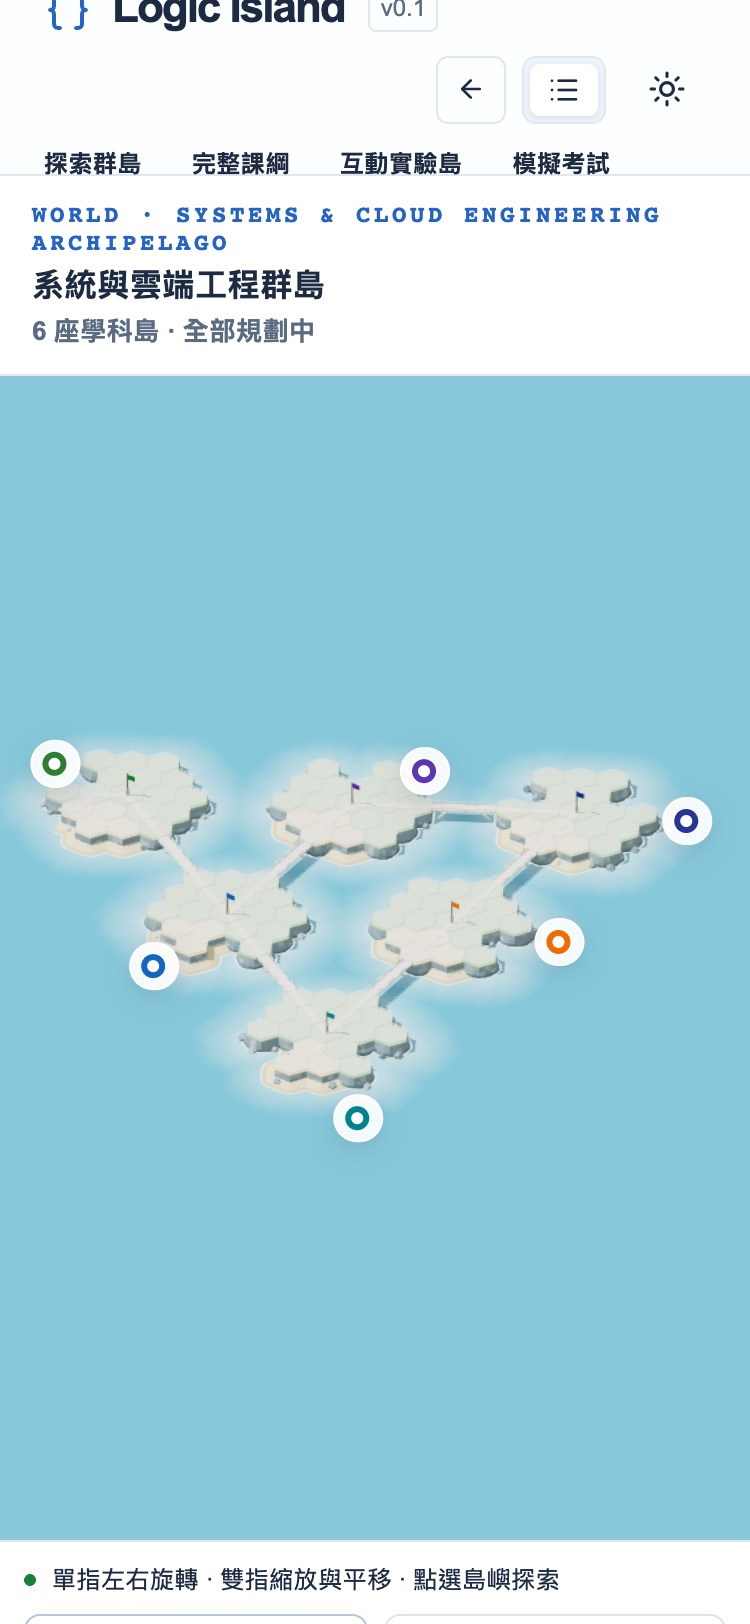
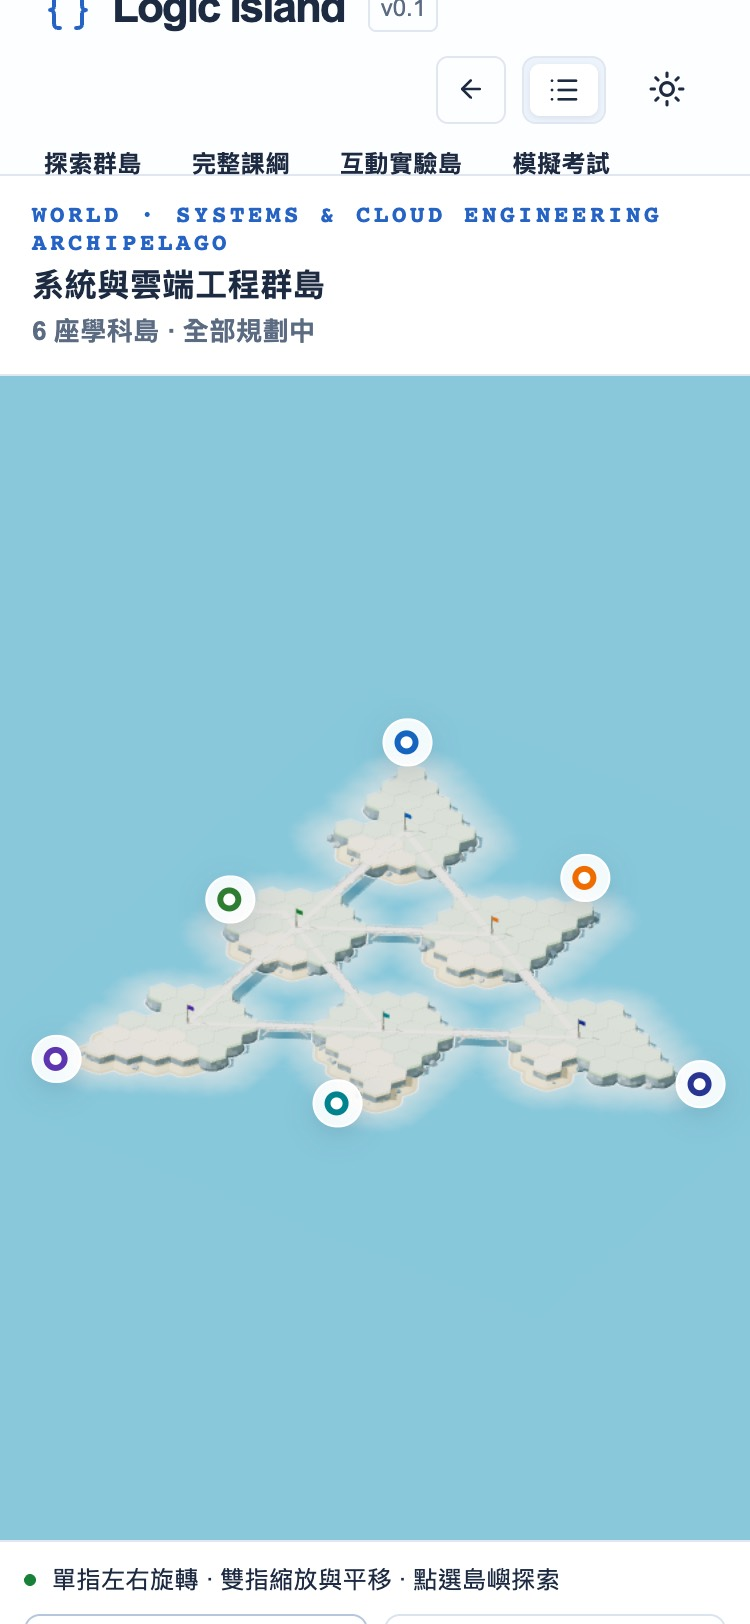
world: AI region as a six-petal pinwheel; region maps laid out by curriculum relations (P8.2)
Still behind LOGIC_ISLAND_REGIONAL_WORLD; the home page, /islands and the CS map
are unchanged.

AI region (requested): six petals leaning the same way around a lagoon, bridged in
a ring, with the language-model island as the small hexagon in the middle joined by
one bridge; a turning shape, not spokes from a hub. The M3.1 loop is kept whole as
AI_BASELINE_LAYOUT, one line away, and is still validated.

Relations: src/lib/world/island-relations.ts derives which islands (and regions)
are related from lesson prerequisites and recommendations. Design, web and sys are
laid out around them and every bridge of a lattice map joins a related pair (tests
pin the relations a flat map cannot bridge). Lattice placements gain headlands.

The AI overview floor on phones is re-pinned at 70 px (74 measured; the loop
reached 85); the focused-island target of 88 px still holds in every region.

Changed region(s): [[0.0, 0.431, 0.9813, 0.7081]]

diff --git a/src/lib/islands/regions/region-layouts.ts b/src/lib/islands/regions/region-layouts.ts
@@ -18,8 +18,9 @@ import type { LatticeMapSpec, RegionLayout } from './schema';
  *
  * P8.2 (multi-region world): this file is the Region Layout Registry. A region is on the 3D world when it has an entry
  * in REGION_LAYOUTS, and nothing else lists the regions: the pages, the overview and the tests all read
- * MAPPED_REGION_IDS. CS and AI are authored (their approved M3.1 coordinates, unchanged); design, web and sys are
- * lattice maps (lattice-layout.ts), one IslandPlacement per registry island, proposed for art review.
+ * MAPPED_REGION_IDS. CS is authored (its approved M3.1 coordinates, unchanged); design, web and sys are lattice maps
+ * (lattice-layout.ts), one IslandPlacement per registry island, proposed for art review. AI (2026-11-12, requested):
+ * a six-petal pinwheel, also a lattice map and a proposal; its M3.1 loop stays below as AI_BASELINE_LAYOUT.
  */
 
 /** A planned island before it has lessons: a radius-2 hex, 19 tiles. */
@@ -64,57 +65,97 @@ const aiSettlements = [
   planned('generative-ai', A(-2, -18)), planned('ai-agents', A(-8, -3)),
   planned('ai-engineering', A(-7, 3), [{ id: 'ai-engineering-dock', tile: A(-7, 5), edge: 5 }]),
 ].map(plannedSettlement);
-const ai: WorldLayout = {
+const aiBaseline: WorldLayout = {
   world: { size: 1.25, settlements: aiSettlements, bridges: AI_BRIDGES },
   glb: [], forests: [], zones: { plaza: 0, buildings: 0, forest: 0, hills: 0, shore: 0, open: 0 },
 };
+/**
+ * The AI region as approved in M3.1 (the loop above). Kept whole, with its camera and docks, so going back is one line
+ * in REGION_LAYOUTS; unit tests still validate it.
+ */
+export const AI_BASELINE_LAYOUT: RegionLayout = { regionId: 'ai', layout: aiBaseline, camera: { azimuth: { desktop: 0, phone: 0 }, labelReach: 8.5 },
+  docks: [{ islandId: 'ai-foundations', spurId: 'ai-foundations-dock' }, { islandId: 'ai-engineering', spurId: 'ai-engineering-dock' }], source: 'authored' };
 
 /*
- * 數位設計群島: four islands around a lagoon, a rhombus. The dock is on UI 設計島's outer shore.
+ * P8.2 (2026-11-12): the four lattice maps are laid out by how their islands are related (a lesson of one island names
+ * a lesson of the other as a prerequisite or as recommended; src/lib/world/island-relations.ts). The island with the
+ * most relations stands in the middle, the islands related to it around it, and every bridge joins a related pair;
+ * unit tests check each bridge against the curriculum and pin the few relations a flat map cannot bridge. The AI map
+ * is the exception by request: a turning ring of six, not a hub with spokes; its bridges still join related pairs only.
+ */
+
+/*
+ * AI 人工智慧群島 as a six-petal pinwheel (requested 2026-11-12: an outline that recalls the six-fold knot of a
+ * well-known AI mark, as an arrangement of islands, not a copy of any logo; and a turning shape, not spokes from a
+ * hub). Six petals stand around a lagoon and each leans the same way round: a headland on one outer side, a bay on
+ * the other and a second bay on the inner side, so the ring reads as turning. A bridge joins each petal to the next,
+ * and every such pair is related in the curriculum. 大型語言模型島 is the small hexagon in the middle of the lagoon,
+ * joined by one bridge to the island it is most related to (AI 代理島) rather than by six spokes.
+ * Petal j sits on lattice direction j: its ring bridges take edges j+2 and j+4, so its outer rim tiles j-1 and j are
+ * free for the bay, the headland and, on the petal that faces the hub (AI 基礎島), the ferry dock.
+ */
+const AI_PETALS = ['deep-learning', 'machine-learning', 'ai-engineering', 'ai-agents', 'ai-foundations', 'generative-ai'] as const;
+const AI_DOCK_PETAL = 4;
+const turn = (k: number) => (((k % 6) + 6) % 6) as 0 | 1 | 2 | 3 | 4 | 5;
+const AI_CELLS: (readonly [number, number])[] = [[1, 0], [1, -1], [0, -1], [-1, 0], [-1, 1], [0, 1]];
+const AI_PINWHEEL: LatticeMapSpec = {
+  bridge: 'stone',
+  placements: [
+    { islandId: 'large-language-models', cell: [0, 0] },
+    ...AI_PETALS.map((islandId, j) => ({ islandId, cell: AI_CELLS[j], extend: [turn(j)], ...(j === AI_DOCK_PETAL ? { dock: turn(j - 1), trim: [turn(j + 2)] } : { trim: [turn(j - 1), turn(j + 2)] }) })),
+  ],
+  links: [...AI_PETALS.map((id, j) => [id, AI_PETALS[(j + 1) % 6]] as const), ['large-language-models', 'ai-agents']],
+};
+
+/*
+ * 數位設計群島: UI 設計島 and 互動設計島 side by side in the middle (each related to the other three), UX 研究島 and
+ * 設計系統島 at the two ends. All five relations of the region are bridges.
  */
 const DESIGN: LatticeMapSpec = {
   bridge: 'wood',
   placements: [
-    { islandId: 'ui-design', cell: [0, 0], trim: [1], dock: 3 },
-    { islandId: 'ux-research', cell: [1, 0], trim: [0, 2] },
+    { islandId: 'ux-research', cell: [0, 0], trim: [1], dock: 3 },
+    { islandId: 'ui-design', cell: [1, 0], extend: [1] },
     { islandId: 'interaction-design', cell: [0, 1], trim: [4] },
-    { islandId: 'design-systems', cell: [1, 1], trim: [5, 3] },
+    { islandId: 'design-systems', cell: [1, 1], extend: [0], trim: [5] },
   ],
-  links: [['ui-design', 'ux-research'], ['ui-design', 'interaction-design'], ['ux-research', 'design-systems'], ['interaction-design', 'design-systems']],
+  links: [['ux-research', 'ui-design'], ['ux-research', 'interaction-design'], ['ui-design', 'interaction-design'], ['ui-design', 'design-systems'], ['interaction-design', 'design-systems']],
 };
 /*
- * 網頁與應用開發群島: a stepped chain running east, from the web foundations to mobile apps, like a delivery pipeline.
+ * 網頁與應用開發群島: 網頁基礎島 and 行動應用島 in the middle, 前端 and 響應式設計 at the ends, lying east to west. All
+ * five relations of the region are bridges.
  */
 const WEB: LatticeMapSpec = {
   bridge: 'wood',
   placements: [
-    { islandId: 'web-foundations', cell: [0, 0], trim: [2], dock: 4 },
-    { islandId: 'frontend', cell: [1, 0], trim: [5] },
-    { islandId: 'responsive-design', cell: [2, -1], trim: [1, 4] },
-    { islandId: 'mobile-apps', cell: [3, -1], trim: [0] },
+    { islandId: 'frontend', cell: [0, 0], trim: [3], extend: [4] },
+    { islandId: 'web-foundations', cell: [1, 0], dock: 4 },
+    { islandId: 'mobile-apps', cell: [1, -1], trim: [2] },
+    { islandId: 'responsive-design', cell: [2, -1], extend: [0], trim: [5] },
   ],
-  links: [['web-foundations', 'frontend'], ['frontend', 'responsive-design'], ['responsive-design', 'mobile-apps']],
+  links: [['frontend', 'web-foundations'], ['frontend', 'mobile-apps'], ['web-foundations', 'mobile-apps'], ['web-foundations', 'responsive-design'], ['mobile-apps', 'responsive-design']],
 };
 /*
- * 系統與雲端工程群島: a stack of three rows, the operating system, containers and servers at the base, cloud and
- * delivery above them, Kubernetes at the top.
+ * 系統與雲端工程群島: Linux 系統島 in the middle with the four islands that build on it around it, and Kubernetes
+ * beyond the two it depends on most (DevOps and servers). Eight of the region's ten relations are bridges.
  */
 const SYS: LatticeMapSpec = {
   bridge: 'stone',
   placements: [
-    { islandId: 'linux-systems', cell: [-2, 2], trim: [3], dock: 4 },
-    { islandId: 'docker-containers', cell: [-1, 2], trim: [5] },
-    { islandId: 'network-servers', cell: [0, 2], trim: [0, 4] },
-    { islandId: 'cloud-infrastructure', cell: [-1, 1], trim: [2] },
-    { islandId: 'devops-cicd', cell: [0, 1], trim: [0] },
-    { islandId: 'kubernetes-reliability', cell: [0, 0], trim: [1, 3] },
+    { islandId: 'linux-systems', cell: [0, 0], dock: 3 },
+    { islandId: 'network-servers', cell: [1, 0], extend: [5] },
+    { islandId: 'devops-cicd', cell: [1, -1], extend: [1] },
+    { islandId: 'docker-containers', cell: [0, -1], extend: [2], trim: [3] },
+    { islandId: 'cloud-infrastructure', cell: [0, 1], extend: [4], trim: [3] },
+    { islandId: 'kubernetes-reliability', cell: [2, -1], extend: [0], trim: [5] },
   ],
-  links: [['linux-systems', 'docker-containers'], ['docker-containers', 'network-servers'], ['docker-containers', 'cloud-infrastructure'],
-    ['network-servers', 'devops-cicd'], ['cloud-infrastructure', 'kubernetes-reliability'], ['devops-cicd', 'kubernetes-reliability']],
+  links: [['linux-systems', 'network-servers'], ['linux-systems', 'devops-cicd'], ['linux-systems', 'docker-containers'], ['linux-systems', 'cloud-infrastructure'],
+    ['devops-cicd', 'docker-containers'], ['network-servers', 'cloud-infrastructure'], ['network-servers', 'kubernetes-reliability'], ['devops-cicd', 'kubernetes-reliability']],
 };
 // Lattice maps keep the default view; their captions get the room the longest island names need beside the list.
-const lattice = (regionId: RegionId, spec: LatticeMapSpec, labelReach = 8.5): RegionLayout =>
-  ({ regionId, ...latticeLayout(spec), camera: { azimuth: { desktop: 0, phone: 0 }, labelReach }, source: 'lattice' });
+// `markers`: the new regions' planned islands carry an accent pennant; AI keeps the M3.1 planned-island look.
+const lattice = (regionId: RegionId, spec: LatticeMapSpec, { labelReach = 8.5, markers = true, azimuth = 0 } = {}): RegionLayout =>
+  ({ regionId, ...latticeLayout(spec), camera: { azimuth: { desktop: azimuth, phone: azimuth }, labelReach }, source: 'lattice', ...(markers ? { plannedMarkers: true as const } : {}) });
 
 /**
  * The regions that have a 3D map, keyed by registry region id. A region without an entry has no /world page and no
@@ -123,10 +164,12 @@ const lattice = (regionId: RegionId, spec: LatticeMapSpec, labelReach = 8.5): Re
  */
 export const REGION_LAYOUTS: Partial<Record<RegionId, RegionLayout>> = {
   cs: { regionId: 'cs', layout: cs, camera: { azimuth: { desktop: 295, phone: 105 }, labelReach: 8.5 }, docks: [{ islandId: 'foundations', spurId: 'foundations-dock' }], source: 'authored' },
-  ai: { regionId: 'ai', layout: ai, camera: { azimuth: { desktop: 0, phone: 0 }, labelReach: 8.5 }, docks: [{ islandId: 'ai-foundations', spurId: 'ai-foundations-dock' }, { islandId: 'ai-engineering', spurId: 'ai-engineering-dock' }], source: 'authored' },
+  // To go back to the M3.1 loop: `ai: AI_BASELINE_LAYOUT`.
+  // Turned 30 degrees: a hexagonal ring is narrowest across its flats, so every island is drawn larger.
+  ai: lattice('ai', AI_PINWHEEL, { markers: false, azimuth: 30, labelReach: 6 }),
   design: lattice('design', DESIGN),
   web: lattice('web', WEB),
-  sys: lattice('sys', SYS, 12),
+  sys: lattice('sys', SYS, { labelReach: 16 }),
 };
 /** The mapped regions, in the registry's id order; derived, never listed by hand. */
 export const MAPPED_REGION_IDS: readonly RegionId[] = REGION_IDS.filter(id => REGION_LAYOUTS[id]);

diff --git a/tests/regional-world.test.ts b/tests/regional-world.test.ts
@@ -4,7 +4,7 @@ import { settlementRoads, type HexWorld } from '@/lib/islands/hex-world';
 import { islandsHomeWorld } from '@/lib/islands/islands-world';
 import { DATABASES_SPEC } from '@/lib/islands/islands-world';
 import { DATABASE_LANDMARKS } from '@/lib/islands/database-island';
-import { MAPPED_REGION_IDS, REGION_LAYOUTS, isMappedRegion, regionLayout } from '@/lib/islands/regions/region-layouts';
+import { AI_BASELINE_LAYOUT, MAPPED_REGION_IDS, REGION_LAYOUTS, isMappedRegion, regionLayout } from '@/lib/islands/regions/region-layouts';
 import { LATTICE_SPACING, latticeLayout } from '@/lib/islands/regions/lattice-layout';
 import { REGION_THEMES } from '@/lib/islands/regions/region-themes';
 import { WORLD_MAP, validateWorldMap, worldMapRegionIds } from '@/lib/islands/regions/world-map';
@@ -170,7 +170,7 @@ describe('multi-region world data model (P8.2)', async () => {
   });
 
   it('the layout layer holds no curriculum data: a region layout is its id, hex world, camera, docks and source', () => {
-    for (const id of MAPPED_REGION_IDS) expect(Object.keys(REGION_LAYOUTS[id]!).sort(), id).toEqual(['camera', 'docks', 'layout', 'regionId', 'source']);
+    for (const id of MAPPED_REGION_IDS) expect(Object.keys(REGION_LAYOUTS[id]!).filter(k => k !== 'plannedMarkers').sort(), id).toEqual(['camera', 'docks', 'layout', 'regionId', 'source']);
     expect(JSON.stringify(WORLD_MAP)).not.toMatch(/lesson|堂|島/);
   });
 
@@ -208,13 +208,82 @@ describe('multi-region world data model (P8.2)', async () => {
   });
 });
 
+const hexDistanceTo = (a: Axial, b: Axial) => (Math.abs(a.q - b.q) + Math.abs(a.r - b.r) + Math.abs(a.q + a.r - b.q - b.r)) / 2;
+
+// Region maps follow the curriculum's relations: related islands are bridged, and no bridge joins unrelated islands.
+describe('region maps and island relations (P8.2)', async () => {
+  const { relationsInRegion, regionRelations } = await import('@/lib/world/island-relations');
+  const key = (a: string, b: string) => [a, b].sort().join(' — ');
+  const unbridged = (region: RegionId) => {
+    const bridges = new Set(regionLayout(region).layout.world.bridges.map(b => key(b.from.islandId, b.to.islandId)));
+    return relationsInRegion(region).map(r => key(r.a, r.b)).filter(k => !bridges.has(k));
+  };
+  it('relations come from lesson prerequisites and recommendations, inside a region and between regions', () => {
+    expect(relationsInRegion('ai')).toHaveLength(15);
+    expect(relationsInRegion('ai')[0]).toEqual({ a: 'ai-agents', b: 'large-language-models', required: 6, recommended: 8 });
+    expect([relationsInRegion('design').length, relationsInRegion('web').length, relationsInRegion('sys').length]).toEqual([5, 5, 10]);
+    expect(regionRelations().slice(0, 3).map(r => `${r.a}-${r.b}`)).toEqual(['ai-cs', 'cs-sys', 'design-web']);
+  });
+  for (const region of MAPPED_REGION_IDS.filter(id => regionLayout(id).source === 'lattice')) {
+    it(`${region}: every bridge joins two related islands`, () => {
+      const related = new Set(relationsInRegion(region).map(r => key(r.a, r.b)));
+      for (const bridge of regionLayout(region).layout.world.bridges) expect(related.has(key(bridge.from.islandId, bridge.to.islandId)), bridge.id).toBe(true);
+    });
+  }
+  it('related islands are bridged; the relations a flat map cannot bridge are pinned', () => {
+    expect(unbridged('design')).toEqual([]);
+    expect(unbridged('web')).toEqual([]);
+    // AI is a turning ring by request, not a hub: its seven bridges all join related islands (the test above), and the
+    // other eight relations, most of them with the island in the lagoon, have no bridge.
+    expect(unbridged('ai')).toHaveLength(8);
+    expect(unbridged('ai').filter(k => k.includes('large-language-models'))).toHaveLength(5);
+    // Systems: 8 of 10.
+    expect(unbridged('sys')).toEqual(['docker-containers — kubernetes-reliability', 'cloud-infrastructure — devops-cicd']);
+  });
+  it('the island in the middle of the AI rosette is the one related to every other AI island', () => {
+    const count = (id: string) => relationsInRegion('ai').filter(r => r.a === id || r.b === id).length;
+    expect(count('large-language-models')).toBe(6);
+    expect(islandsInRegion('ai').filter(i => count(i.id) === 6).map(i => i.id)).toEqual(['large-language-models']);
+  });
+});
+
 describe('lattice region maps (P8.2)', () => {
   const zones = { plaza: 0, buildings: 0, forest: 0, hills: 0, shore: 0, open: 0 };
-  it('design, web and sys are lattice maps with different outlines; cs and ai stay authored', () => {
-    expect(MAPPED_REGION_IDS.map(id => [id, regionLayout(id).source])).toEqual([['cs', 'authored'], ['ai', 'authored'], ['design', 'lattice'], ['web', 'lattice'], ['sys', 'lattice']]);
+  it('ai, design, web and sys are lattice maps with different outlines; cs stays authored', () => {
+    expect(MAPPED_REGION_IDS.map(id => [id, regionLayout(id).source])).toEqual([['cs', 'authored'], ['ai', 'lattice'], ['design', 'lattice'], ['web', 'lattice'], ['sys', 'lattice']]);
     // The outline of a lattice map is its cells: no two regions share one (as a set of cell offsets from the first cell).
-    const outline = (id: 'design' | 'web' | 'sys') => { const c = regionLayout(id).layout.world.settlements.map(s => s.center); return c.map(x => `${(x.q - c[0].q) / LATTICE_SPACING},${(x.r - c[0].r) / LATTICE_SPACING}`).sort().join(' '); };
-    expect(new Set([outline('design'), outline('web'), outline('sys')]).size).toBe(3);
+    const outline = (id: 'ai' | 'design' | 'web' | 'sys') => { const c = regionLayout(id).layout.world.settlements.map(s => s.center); return c.map(x => `${(x.q - c[0].q) / LATTICE_SPACING},${(x.r - c[0].r) / LATTICE_SPACING}`).sort().join(' '); };
+    expect(new Set([outline('ai'), outline('design'), outline('web'), outline('sys')]).size).toBe(4);
+    // Only the three new regions mark their planned islands with a pennant; AI keeps the M3.1 planned-island look.
+    expect(MAPPED_REGION_IDS.filter(id => regionLayout(id).plannedMarkers)).toEqual(['design', 'web', 'sys']);
+  });
+  it('the AI region is a six-petal pinwheel: six petals turned the same way around a lagoon, bridged in a ring, not spokes from a hub', () => {
+    const { world } = regionLayout('ai').layout, middle = world.settlements[0], ring = world.settlements.slice(1);
+    expect(middle.islandId).toBe('large-language-models');
+    expect(ring).toHaveLength(6);
+    // Six-fold turning: petal j is petal 0 turned j times by 60 degrees about the middle (the dock petal keeps one rim tile for its dock).
+    const turned = ({ q, r }: Axial, times: number) => { let p = { q, r }; for (let i = 0; i < times; i++) p = { q: p.q + p.r, r: -p.q }; return p; };
+    const shape = (s: typeof ring[number]) => s.tiles.map(t => hexKey({ q: t.q - middle.center.q, r: t.r - middle.center.r })).sort();
+    const first = ring[0].tiles.map(t => ({ q: t.q - middle.center.q, r: t.r - middle.center.r }));
+    for (const [j, petal] of ring.entries()) {
+      const expected = first.map(t => hexKey(turned(t, j))).sort();
+      if (petal.spurs) expect(shape(petal).filter(k => !expected.includes(k)), petal.islandId).toHaveLength(1);
+      else expect(shape(petal), petal.islandId).toEqual(expected);
+      expect(hexDistanceTo(petal.center, middle.center), petal.islandId).toBe(LATTICE_SPACING);
+    }
+    // A leaning petal is not symmetric: its mirror image is a different shape.
+    expect(first.map(t => hexKey({ q: t.q + t.r, r: -t.r })).sort()).not.toEqual(first.map(hexKey).sort());
+    const between = (a: string, b: string) => world.bridges.some(x => [x.from.islandId, x.to.islandId].sort().join() === [a, b].sort().join());
+    for (const [j, petal] of ring.entries()) expect(between(petal.islandId, ring[(j + 1) % 6].islandId), petal.islandId).toBe(true);
+    // One bridge to the island in the lagoon, not six spokes.
+    expect(world.bridges.filter(x => x.from.islandId === middle.islandId || x.to.islandId === middle.islandId).map(x => x.id)).toEqual(['large-language-models-ai-agents']);
+    expect(world.bridges).toHaveLength(7);
+  });
+  it('the M3.1 AI loop is kept whole and still valid, one line away', () => {
+    const ids = islandsInRegion('ai').map(i => i.id);
+    expect(validateRegion(AI_BASELINE_LAYOUT, ids, reserved(AI_BASELINE_LAYOUT.layout.world))).toEqual([]);
+    expect(AI_BASELINE_LAYOUT.source).toBe('authored');
+    expect(AI_BASELINE_LAYOUT.layout.world.settlements.find(s => s.islandId === 'ai-foundations')!.center).toEqual({ q: 0, r: 0 });
   });
   it('builds a valid region from placements alone, at any size', () => {
     for (const n of [1, 4, 12, 30]) {
@@ -233,5 +302,9 @@ describe('lattice region maps (P8.2)', () => {
     expect(() => latticeLayout({ bridge: 'wood', placements: [{ ...one, trim: [4] }], links: [] })).toThrow('trimmed tile');
     expect(() => latticeLayout({ bridge: 'wood', placements: [{ islandId: 'a', cell: [0, 0] }], links: [] })).toThrow('no dock');
     expect(() => latticeLayout({ bridge: 'wood', placements: [one, { islandId: 'b', cell: [0, 0] }], links: [] })).toThrow('share a cell');
+    // A headland needs open sea: not toward a neighbouring island, not on a trimmed tile, not where the dock faces.
+    expect(() => latticeLayout({ bridge: 'wood', placements: [{ ...one, extend: [0] }, { islandId: 'b', cell: [1, 0] }], links: [['a', 'b']] })).toThrow('less than two water hexes');
+    expect(() => latticeLayout({ bridge: 'wood', placements: [{ ...one, extend: [2], trim: [2] }], links: [] })).toThrow('stands on a trimmed tile');
+    expect(() => latticeLayout({ bridge: 'wood', placements: [{ ...one, extend: [4] }], links: [] })).toThrow('faces its own headland');
   });
 });

diff --git a/src/lib/islands/regions/lattice-layout.ts b/src/lib/islands/regions/lattice-layout.ts
@@ -15,6 +15,8 @@ export const LATTICE_SPACING = 7, LATTICE_RADIUS = 2;
 const next = (k: HexEdge) => ((k + 1) % 6) as HexEdge;
 /** The rim tile between directions k and k+1, relative to the island's center. */
 const rimTile = (k: HexEdge): Axial => addAxial(hexDirection(k), hexDirection(next(k)));
+/** The headland beyond rim tile k: the two tiles of the next ring that touch it, and the tip beyond them. */
+const headland = (k: HexEdge): Axial[] => [addAxial(rimTile(k), hexDirection(k)), addAxial(rimTile(k), hexDirection(next(k))), addAxial(rimTile(k), rimTile(k))];
 export const latticeCenter = ([a, b]: readonly [number, number]): Axial => ({ q: a * LATTICE_SPACING, r: b * LATTICE_SPACING });
 
 export function latticeLayout({ placements, links, bridge }: LatticeMapSpec): { layout: WorldLayout; docks: RegionDock[] } {
@@ -45,18 +47,24 @@ export function latticeLayout({ placements, links, bridge }: LatticeMapSpec): { 
 
   const docks: RegionDock[] = [];
   const settlements = placements.map(p => {
-    const center = latticeCenter(p.cell), trim = p.trim ?? [];
+    const center = latticeCenter(p.cell), trim = p.trim ?? [], extend = p.extend ?? [];
+    for (const k of extend) {
+      // A headland reaches one tile further out, so it needs open sea on both sides it leans toward, and its rim tile.
+      if (trim.includes(k)) throw new Error(`lattice map: ${p.islandId} headland ${k} stands on a trimmed tile`);
+      for (const e of [k, next(k)]) { const n = hexNeighbor({ q: p.cell[0], r: p.cell[1] }, e); if (cells.has(`${n.q},${n.r}`)) throw new Error(`lattice map: ${p.islandId} headland ${k} leaves less than two water hexes to a neighbour`); }
+    }
     let spurs: HexSpur[] | undefined;
     if (p.dock !== undefined) {
       const k = p.dock, tile = addAxial(center, rimTile(k));
       // A dock is more than one tile from every bridge port of its island, on a rim tile that was not trimmed, and the
       // hex it faces is open sea (no other island's cell is that close on the lattice).
       if (trim.includes(k)) throw new Error(`lattice map: ${p.islandId} dock is on a trimmed tile`);
+      if (extend.includes(k)) throw new Error(`lattice map: ${p.islandId} dock faces its own headland`);
       if (ports.get(p.islandId)!.some(e => hexDistance(addAxial(center, hexDirection(e), LATTICE_RADIUS), tile) <= 1)) throw new Error(`lattice map: ${p.islandId} dock is next to a bridge port`);
       spurs = [{ id: `${p.islandId}-dock`, tile, edge: k }];
       docks.push({ islandId: p.islandId, spurId: `${p.islandId}-dock` });
     }
-    return plannedSettlement({ islandId: p.islandId, center, shape: shape(LATTICE_RADIUS, trim.map(rimTile), []), ...(spurs ? { spurs } : {}) });
+    return plannedSettlement({ islandId: p.islandId, center, shape: shape(LATTICE_RADIUS, trim.map(rimTile), extend.flatMap(headland)), ...(spurs ? { spurs } : {}) });
   });
   if (!docks.length) throw new Error('lattice map: no dock for the ferry routes');
   return { layout: { world: { size: 1.25, settlements, bridges }, glb: [], forests: [], zones: { plaza: 0, buildings: 0, forest: 0, hills: 0, shore: 0, open: 0 } }, docks };

diff --git a/src/lib/world/island-relations.ts b/src/lib/world/island-relations.ts
@@ -1,0 +1,41 @@
+import { getIsland } from '@/content/world';
+import { catalogLessons, getCatalogLesson } from '@/content/world/catalog';
+import type { RegionId } from '@/content/world/types';
+
+/*
+ * P8.2: which islands are related, derived from the curriculum and never declared for the map. Two islands are related
+ * when a lesson of one names a lesson of the other as a prerequisite (required) or as recommended reading. Region maps
+ * are laid out around these relations: related islands stand next to each other and a bridge joins them, and a bridge
+ * never joins two islands that are not related (tests/regional-world.test.ts). Server-side: it reads the whole catalog.
+ */
+export interface IslandRelation { a: string; b: string; required: number; recommended: number }
+
+/** Every related pair of islands, each once (a < b), with how many lesson links of each kind stand behind it. */
+export function islandRelations(): IslandRelation[] {
+  const pairs = new Map<string, IslandRelation>();
+  for (const lesson of catalogLessons) for (const [kind, ids] of [['required', lesson.prerequisites], ['recommended', lesson.recommended]] as const) for (const id of ids) {
+    const other = getCatalogLesson(id)?.islandId;
+    if (!other || other === lesson.islandId) continue;
+    const [a, b] = [lesson.islandId, other].sort(), key = `${a} ${b}`;
+    const pair = pairs.get(key) ?? { a, b, required: 0, recommended: 0 };
+    pair[kind]++;
+    pairs.set(key, pair);
+  }
+  return [...pairs.values()];
+}
+const weight = (r: IslandRelation) => r.required + r.recommended;
+/** The related pairs inside one region, strongest first. */
+export const relationsInRegion = (region: RegionId) => islandRelations().filter(r => getIsland(r.a)?.regionId === region && getIsland(r.b)?.regionId === region)
+  .sort((x, y) => weight(y) - weight(x) || x.a.localeCompare(y.a) || x.b.localeCompare(y.b));
+/** How strongly two regions are related: the lesson links between their islands, strongest first. */
+export function regionRelations(): { a: RegionId; b: RegionId; links: number }[] {
+  const pairs = new Map<string, { a: RegionId; b: RegionId; links: number }>();
+  for (const r of islandRelations()) {
+    const ra = getIsland(r.a)?.regionId, rb = getIsland(r.b)?.regionId;
+    if (!ra || !rb || ra === rb) continue;
+    const [a, b] = [ra, rb].sort() as [RegionId, RegionId], pair = pairs.get(`${a} ${b}`) ?? { a, b, links: 0 };
+    pair.links += weight(r);
+    pairs.set(`${a} ${b}`, pair);
+  }
+  return [...pairs.values()].sort((x, y) => y.links - x.links);
+}

diff --git a/src/lib/islands/regions/schema.ts b/src/lib/islands/regions/schema.ts
@@ -36,14 +36,17 @@ export interface RegionLayout {
    * its art is reviewed, drawn with the shared planned-island terrain and a procedural marker per island.
    */
   source: 'authored' | 'lattice';
+  /** Each planned island's survey marker carries a pennant in the island's accent (a proposal; see P8.2 §8 R3). */
+  plannedMarkers?: true;
 }
 
 /**
  * One island of a lattice map. `cell` is its place on a coarse hex lattice (lattice-layout.ts: neighbouring cells are
  * seven tiles apart, so two water hexes separate them). `trim` drops rim tiles for an uneven coast: index k is the rim
- * tile between hex directions k and k+1. `dock` puts the region's ferry dock on rim tile k, facing the sea along k.
+ * tile between hex directions k and k+1. `extend` adds a headland of three tiles beyond rim tile k, only on a side with
+ * no neighbouring island. `dock` puts the region's ferry dock on rim tile k, facing the sea along k.
  */
-export interface IslandPlacement { islandId: string; cell: readonly [number, number]; trim?: readonly HexEdge[]; dock?: HexEdge }
+export interface IslandPlacement { islandId: string; cell: readonly [number, number]; trim?: readonly HexEdge[]; extend?: readonly HexEdge[]; dock?: HexEdge }
 
 /** A lattice map: the islands' cells and which neighbouring pairs a bridge joins. */
 export interface LatticeMapSpec {

diff --git a/src/components/world/regional-world-explorer.tsx b/src/components/world/regional-world-explorer.tsx
@@ -23,11 +23,11 @@ export const WORLD_RETURN_KEY = 'logic-island:world-return';
  * home map, which is framed at about twice the zoom: desktop names hang sideways about 150 px (the region's camera
  * preset); phone labels are pins, which the home map's room already fits.
  * P8.2: built from the region's layout and camera preset (REGION_LAYOUTS), for any region; region maps can be panned
- * and driven from the keyboard (`mapControls`), and a lattice map marks each planned island with its accent.
+ * and driven from the keyboard (`mapControls`), and a region may mark each planned island with its accent.
  */
 function regionSceneOptions(region: RegionId, phone: boolean) {
-  const { layout, camera, source } = regionLayout(region);
-  return { ...sceneOptions(layout, SCENE_PRESETS.lab), labelReach: phone ? undefined : camera.labelReach, largeTargets: true, mapControls: true, plannedMarkers: source === 'lattice' };
+  const { layout, camera, plannedMarkers } = regionLayout(region);
+  return { ...sceneOptions(layout, SCENE_PRESETS.lab), labelReach: phone ? undefined : camera.labelReach, largeTargets: true, mapControls: true, plannedMarkers };
 }
 
 /*

diff --git a/e2e/regional-world.spec.ts b/e2e/regional-world.spec.ts
@@ -101,7 +101,9 @@ test.describe('regional world: flag on', () => {
     const names = ['AI 基礎島', '機器學習島', '深度學習島', '大型語言模型島', '生成式 AI 島', 'AI 代理島', 'AI 工程與 MLOps 島'];
     for (const name of names) await expect(page.getByRole('button', { name: `聚焦${name}（規劃中）`, exact: true })).toBeVisible();
     await expectLabelsClear(page);
-    for (const [id, w] of Object.entries(await islandWidths(page, 'ai'))) expect(w, id).toBeGreaterThanOrEqual(phone() ? 80 : 180);
+    // P8.2: the six-petal pinwheel is wider than the M3.1 loop, so on phones the island in the lagoon is 74 px in the
+    // overview (the loop reached 85); pinned at the same floor as the CS map. The phone target is the focused island (D5, below).
+    for (const [id, w] of Object.entries(await islandWidths(page, 'ai'))) expect(w, id).toBeGreaterThanOrEqual(phone() ? 70 : 180);
   });
 
   test('focus follows the address: choose, back, forward, deep link, unknown id, Escape up two levels', async ({ page }) => {
